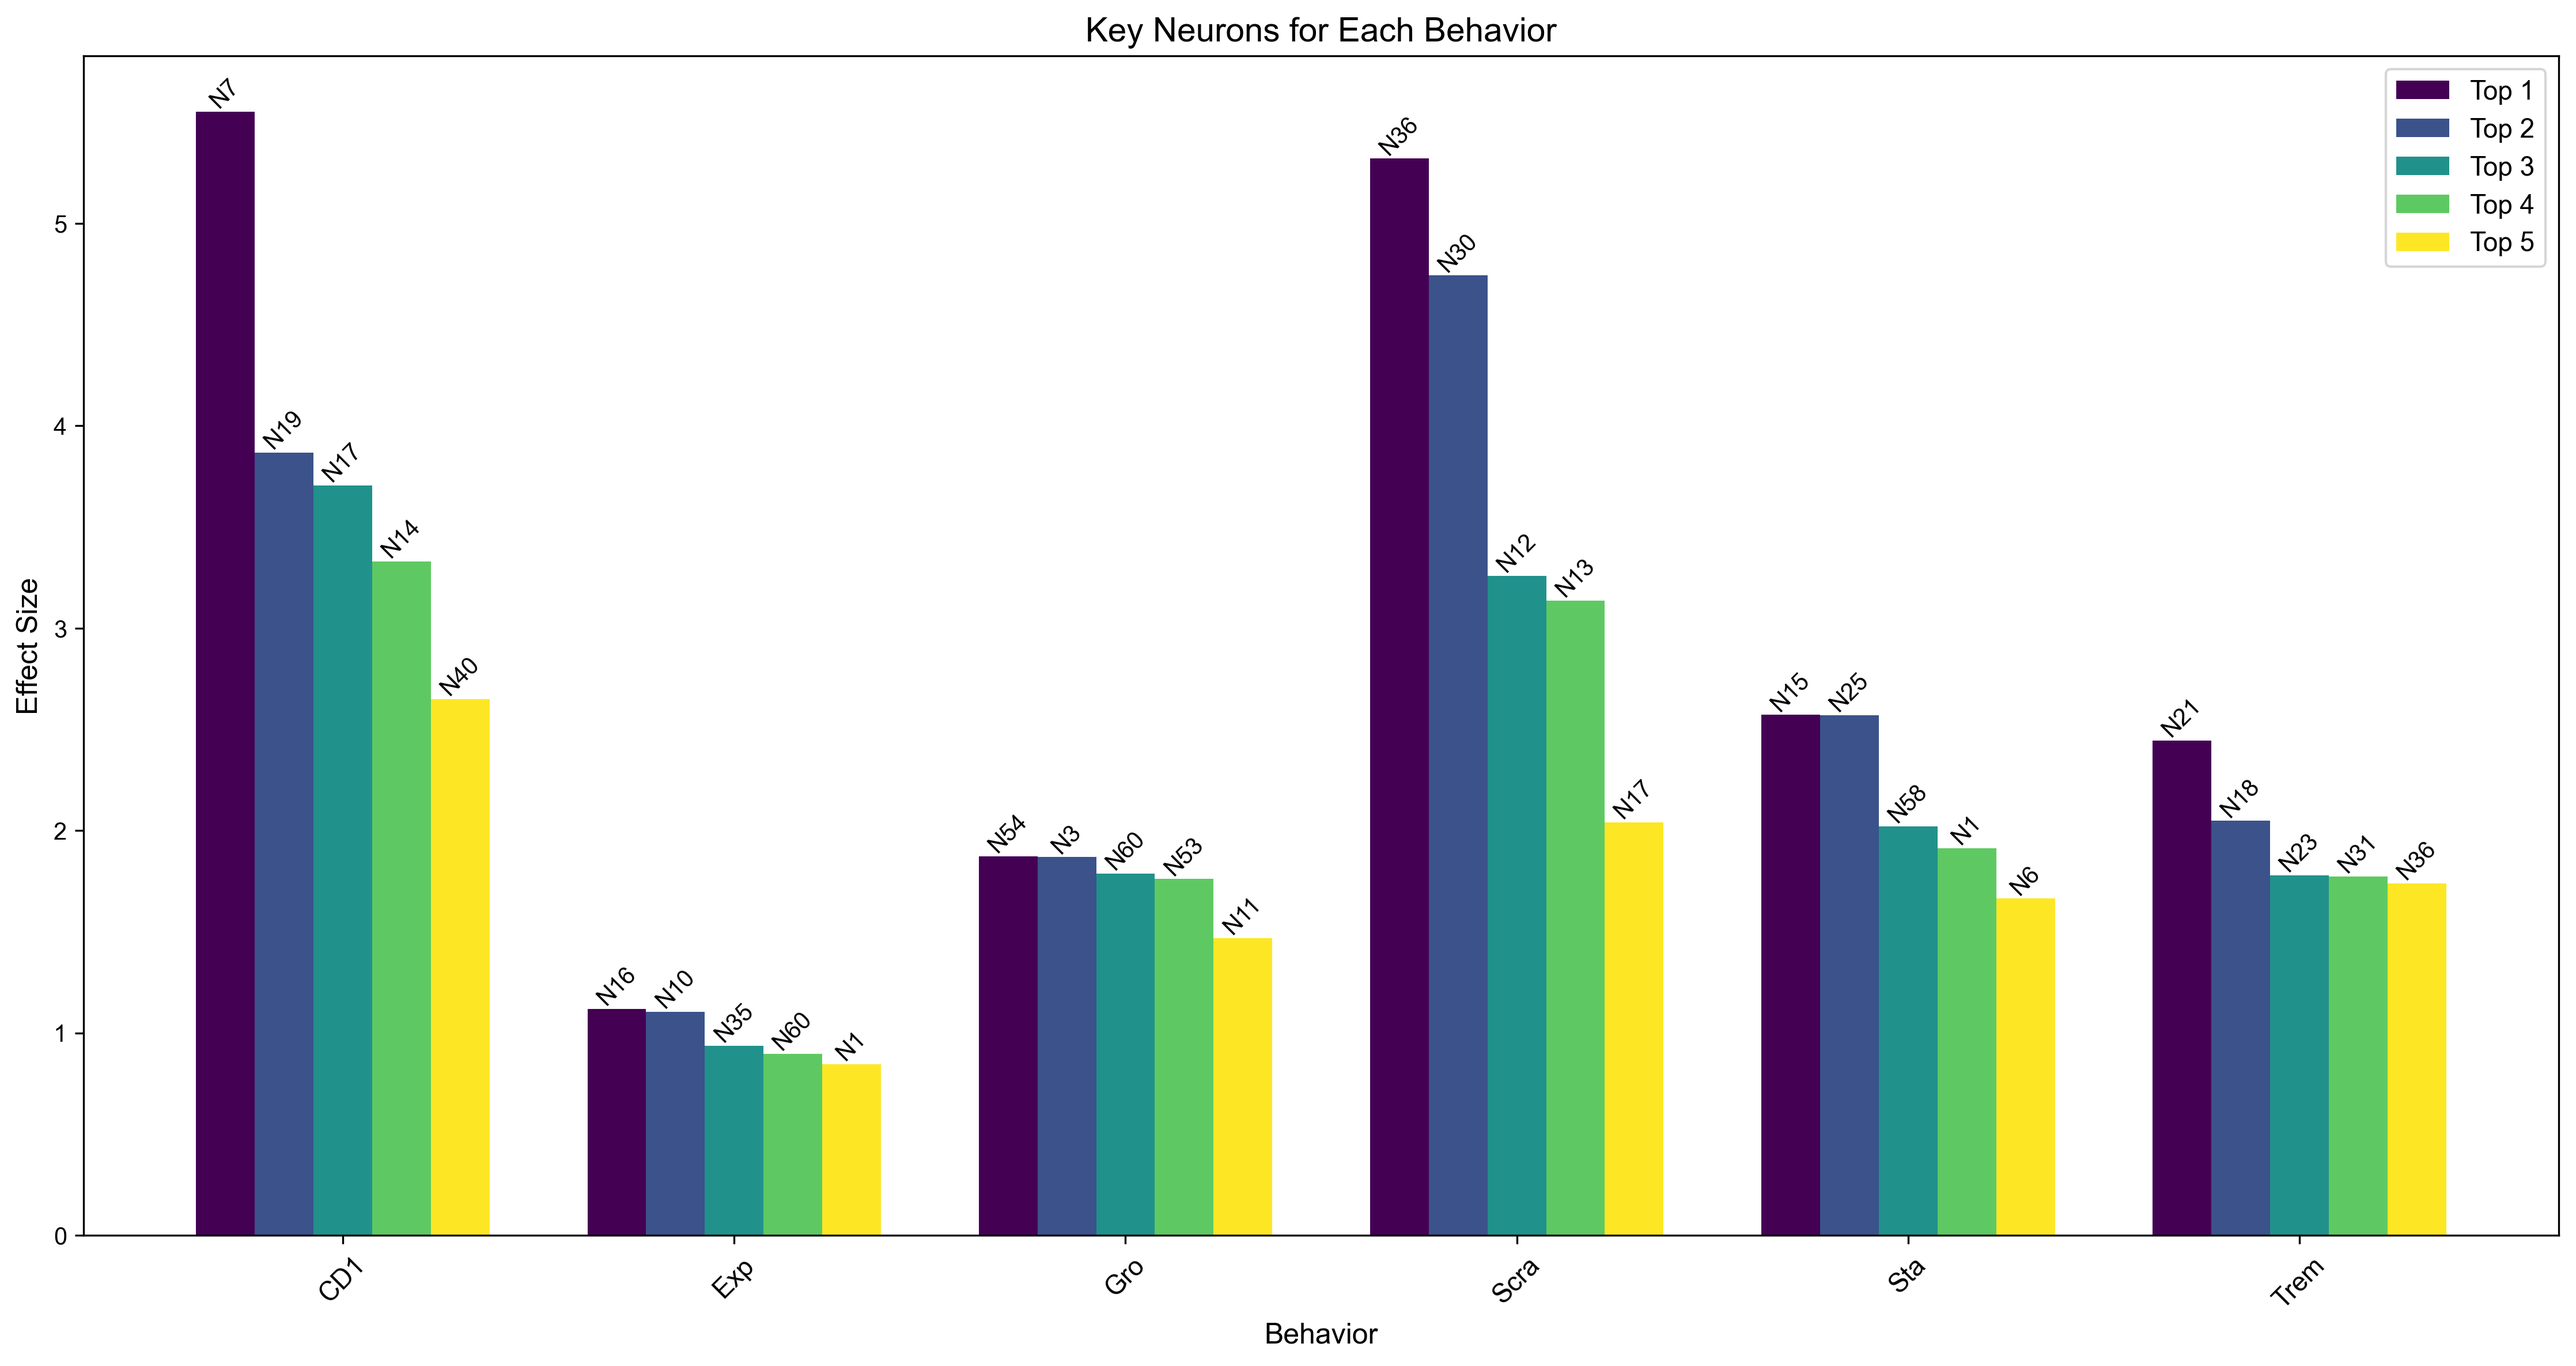
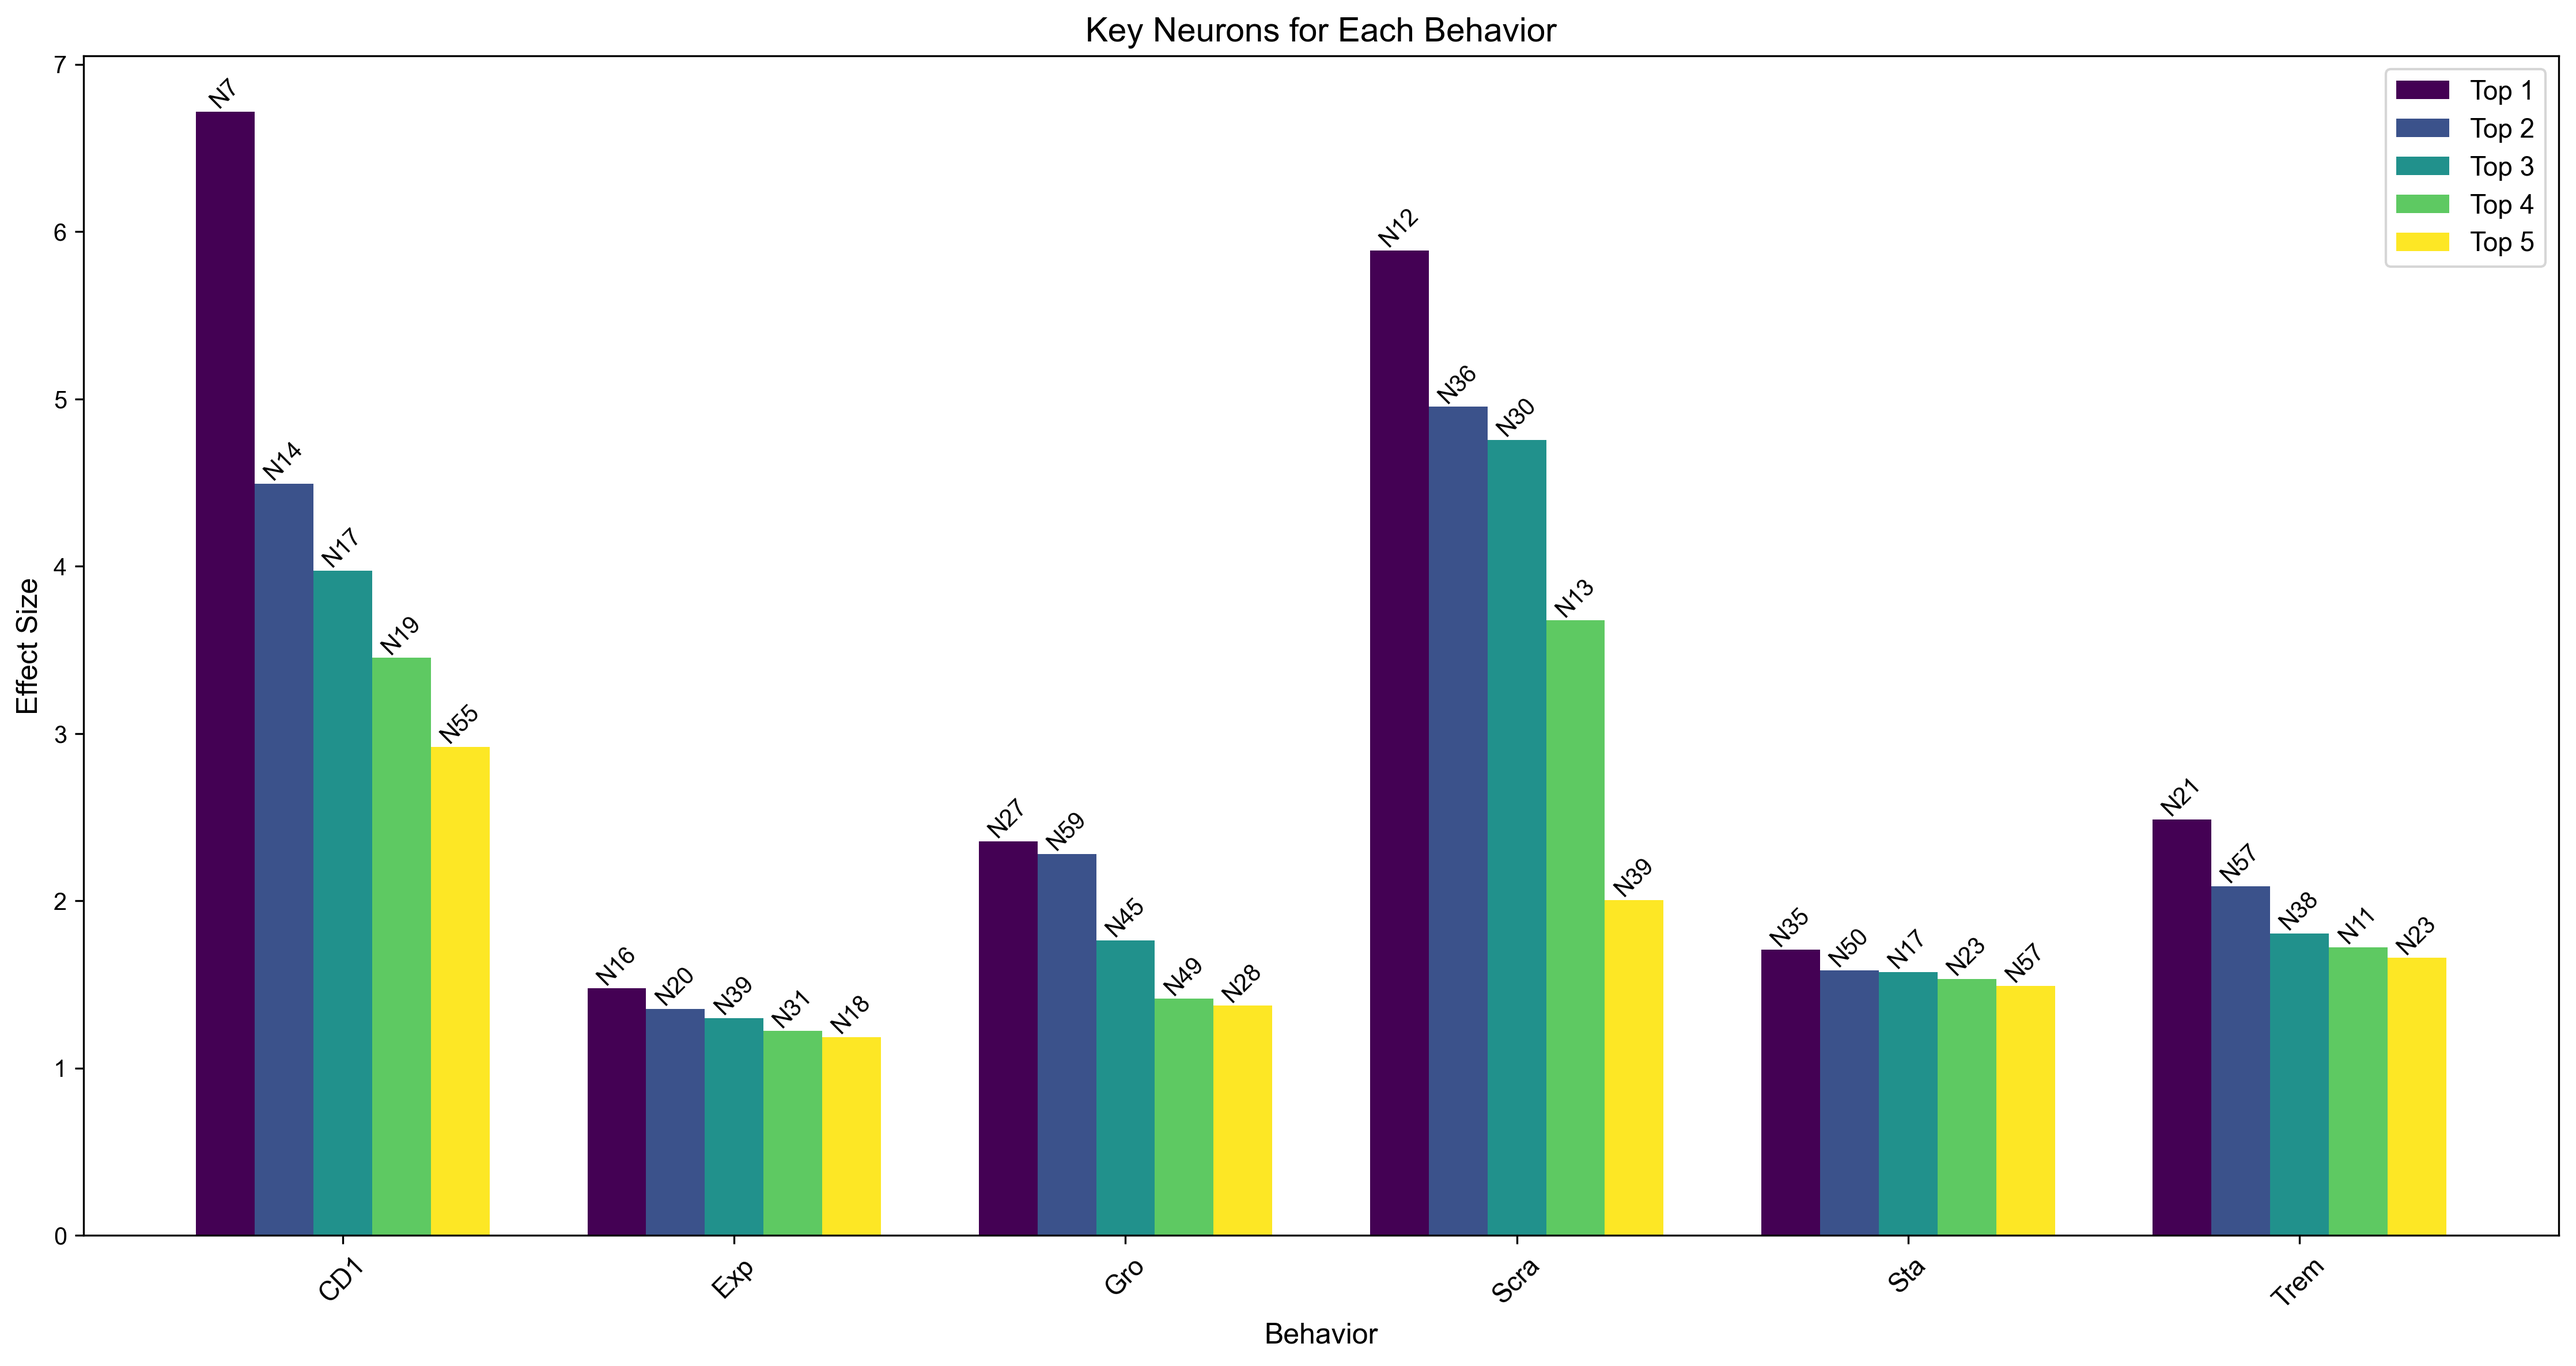
20250224

diff --git a/LSTM/src/analysis_results.py b/LSTM/src/analysis_results.py
@@ -413,6 +413,7 @@ class ResultAnalyzer:
             behavior_importance: 每种行为的关键神经元及其重要性
         """
         behavior_importance = {}
+        effect_size_data = []  # 用于存储所有效应量数据
         
         for behavior_idx, behavior in enumerate(self.behavior_labels):
             behavior_mask = (y == behavior_idx)
@@ -428,12 +429,48 @@ class ResultAnalyzer:
             pooled_std = np.sqrt((behavior_std**2 + other_std**2) / 2)
             effect_size = np.abs(behavior_mean - other_mean) / pooled_std
             
-            # Get top neurons
-            top_neurons = np.argsort(effect_size)[-self.config.analysis_params['top_neurons_count']:][::-1]
+            # 获取所有神经元的效应量，并按效应量大小排序
+            sorted_indices = np.argsort(effect_size)[::-1]  # 从大到小排序
+            sorted_effect_sizes = effect_size[sorted_indices]
+            neuron_numbers = sorted_indices + 1  # +1 for 1-based indexing
+            
+            # 将该行为的所有神经元效应量数据添加到列表中
+            effect_size_data.append({
+                'behavior': behavior,
+                'neuron_numbers': neuron_numbers,
+                'effect_sizes': sorted_effect_sizes
+            })
+            
+            # Get top neurons for visualization
+            top_neurons = sorted_indices[:self.config.analysis_params['top_neurons_count']]
             behavior_importance[behavior] = {
                 'neurons': top_neurons + 1,  # +1 for 1-based indexing
                 'effect_sizes': effect_size[top_neurons]
             }
+        
+        # 保存效应量数据到CSV文件
+        # 创建一个包含所有神经元的DataFrame
+        all_neurons_df = pd.DataFrame()
+        
+        for data in effect_size_data:
+            behavior = data['behavior']
+            # 创建该行为的效应量数据字典
+            behavior_dict = {
+                f'Neuron_{num}': effect_size 
+                for num, effect_size in zip(data['neuron_numbers'], data['effect_sizes'])
+            }
+            # 将行为名称添加到字典中
+            behavior_dict['Behavior'] = behavior
+            # 将该行为的数据添加到DataFrame中
+            all_neurons_df = pd.concat([all_neurons_df, pd.DataFrame([behavior_dict])], ignore_index=True)
+        
+        # 设置'Behavior'列为索引
+        all_neurons_df.set_index('Behavior', inplace=True)
+        
+        # 保存到CSV文件
+        csv_path = os.path.join(self.config.analysis_dir, 'neuron_effect_sizes.csv')
+        all_neurons_df.to_csv(csv_path)
+        print(f"\n所有神经元的效应量数据已保存到: {csv_path}")
         
         # Plot results
         plt.figure(figsize=self.config.visualization_params['figure_sizes']['key_neurons'])
